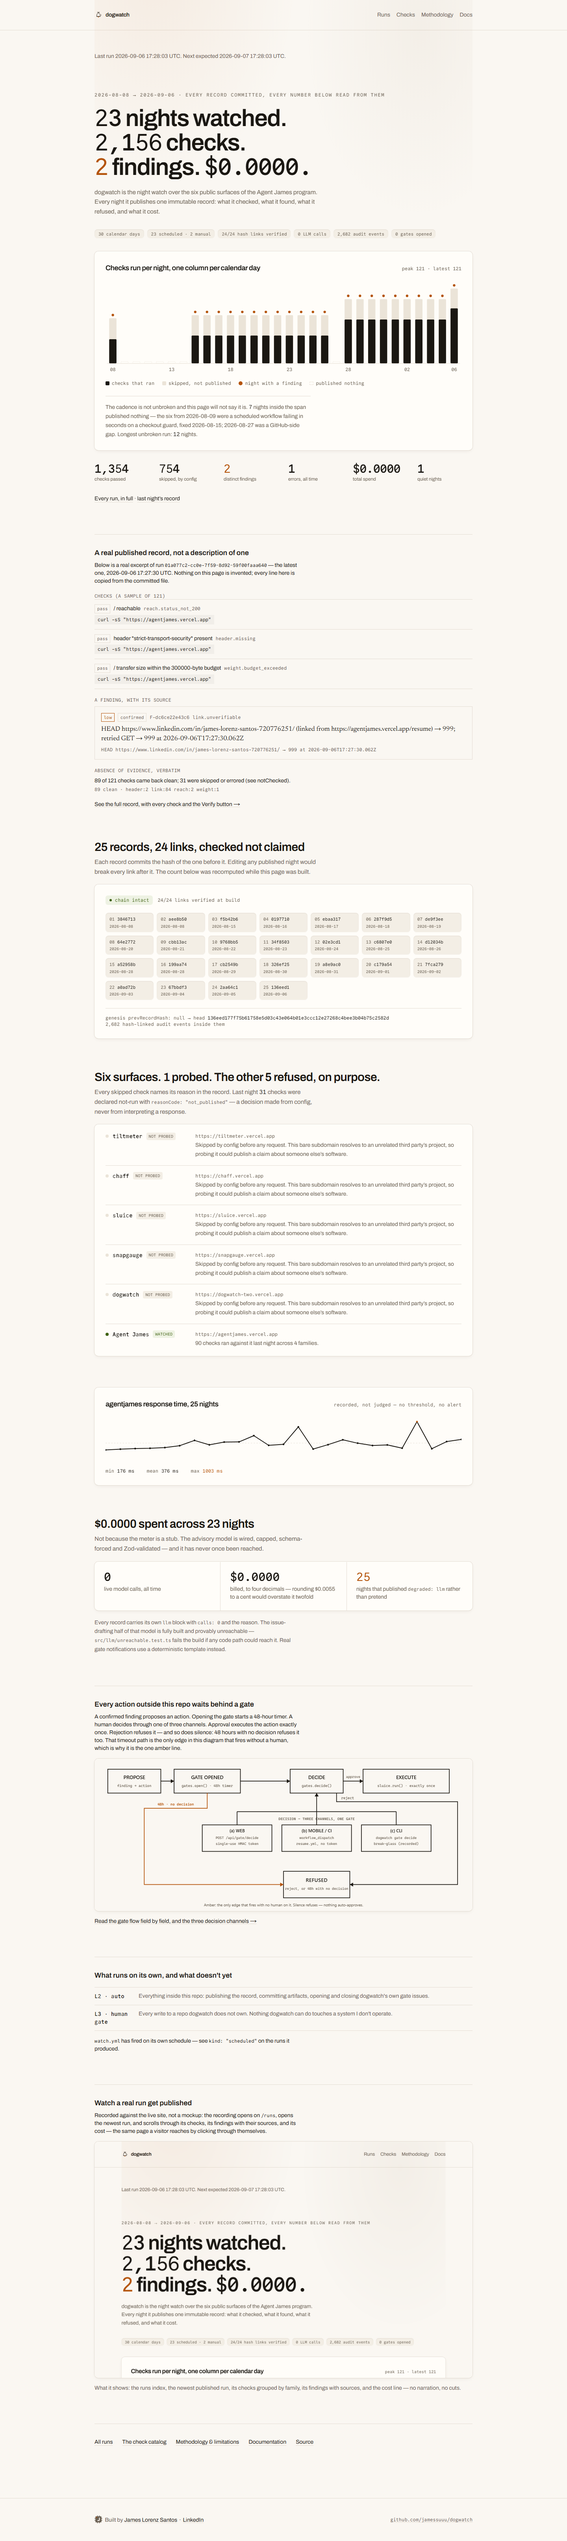
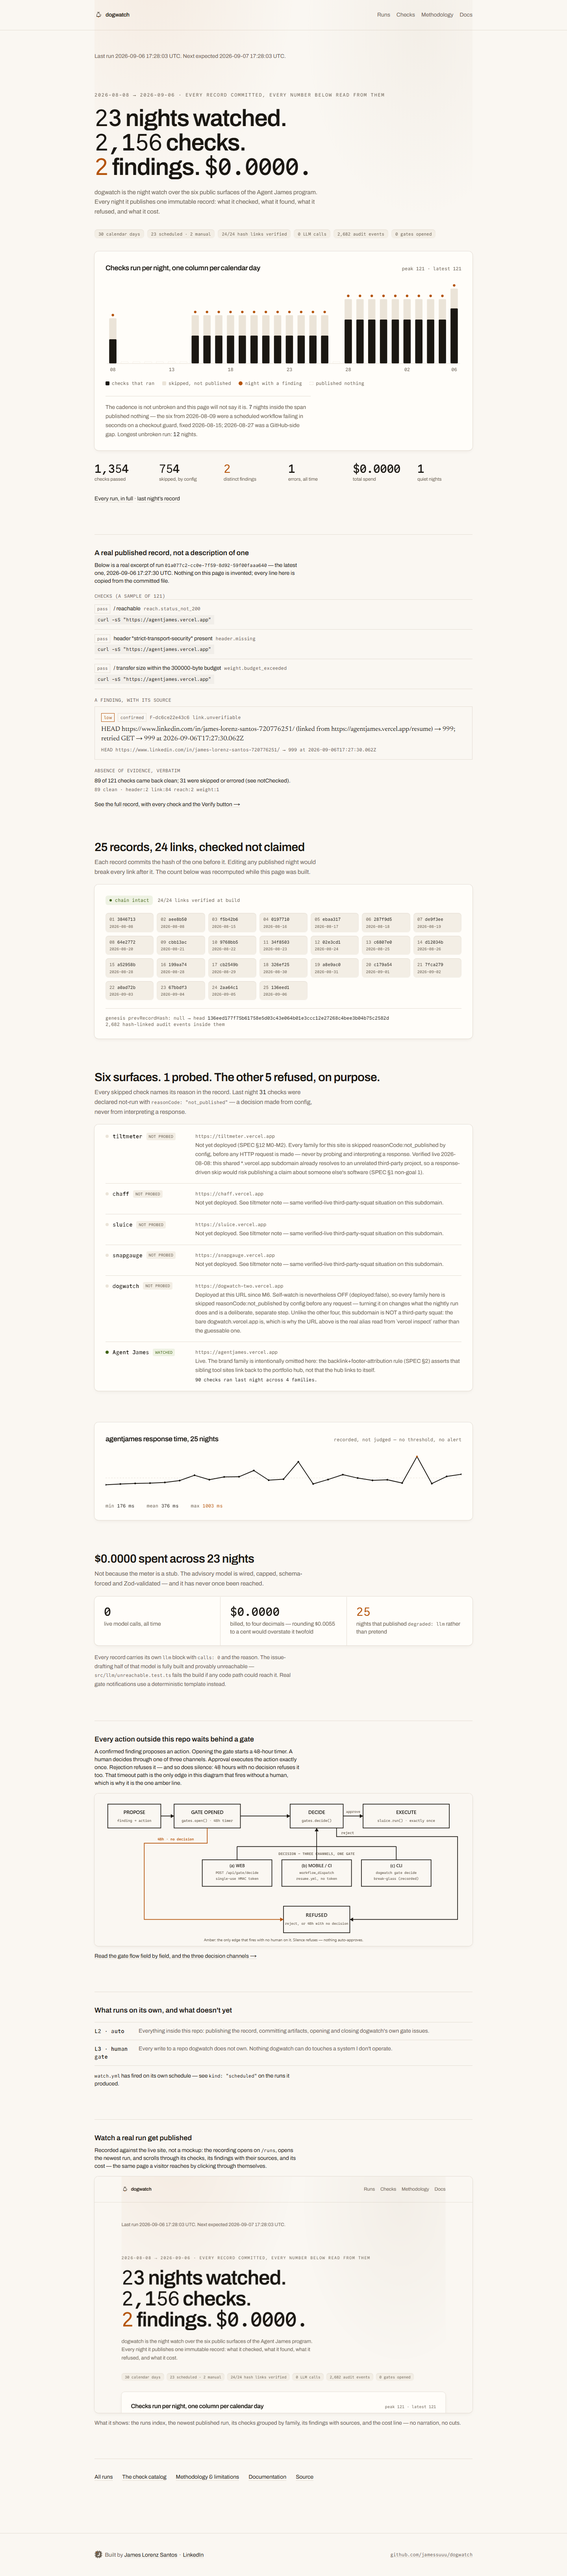
fix(web): render each surface's committed note, not an invented one
Caught by looking at the rendered page rather than the data, and it was a
bug I introduced two commits ago.

The ledger printed one hardcoded sentence against all five skipped rows —
"this bare subdomain resolves to an unrelated third party's project". That
was true of four of them. It stopped being true of the fifth the moment I
corrected the dogwatch row's URL to its real alias: dogwatch-two.vercel.app
is James's own site, not a squat. So the page was publishing a false claim
about the reason a check was skipped, on the page whose entire subject is
publishing honest reasons for skipped checks.

The row now renders `surface.note` straight off targets.json — the same
file the runner reads — so the page cannot narrate the data into something
the data does not say. /checks already worked this way; this brings the
ledger in line.

targets.json's dogwatch note was itself stale in both halves: it said the
site had not shipped (M6 landed) and that its subdomain was a third-party
squat (it is not). Corrected to state what is actually true — deployed
since M6, self-watch deliberately still OFF because turning it on changes
what the nightly run does, and the URL is the real alias precisely because
the guessable one belongs to someone else. `deployed:false` is unchanged:
that flag governs runtime behaviour and flipping it is a separate decision.

Side effect worth having: five verbatim repetitions of the same sentence
are replaced by five real per-target reasons.
[…]

diff --git a/apps/web/components/SurfaceLedger.tsx b/apps/web/components/SurfaceLedger.tsx
@@ -40,18 +40,19 @@ function Row({ surface, checks }: { surface: Surface; checks: number }) {
       </div>
       <div className="flex-1">
         <p className="font-mono text-xs break-all text-ink-muted">{surface.url}</p>
-        <p className="mt-1 text-sm leading-relaxed text-ink-muted">
-          {live ? (
-            <>
-              {checks} checks ran against it last night across {surface.families.length} families.
-            </>
-          ) : (
-            <>
-              Skipped by config before any request. This bare subdomain resolves to an unrelated third party&rsquo;s
-              project, so probing it could publish a claim about someone else&rsquo;s software.
-            </>
-          )}
-        </p>
+        {/* The target's OWN committed note, never a sentence invented here.
+            A hardcoded "this subdomain belongs to a stranger" was rendered
+            against all five skipped rows, and went false the moment the
+            dogwatch row's URL was corrected to its real alias — which is
+            not a squat. A page that narrates the data instead of showing
+            it will drift from it; this is the same rule /checks already
+            follows. */}
+        <p className="mt-1 text-sm leading-relaxed text-ink-muted">{surface.note}</p>
+        {live && (
+          <p className="mt-1 font-mono text-xs text-ink">
+            {checks} checks ran last night across {surface.families.length} families.
+          </p>
+        )}
       </div>
     </div>
   );
